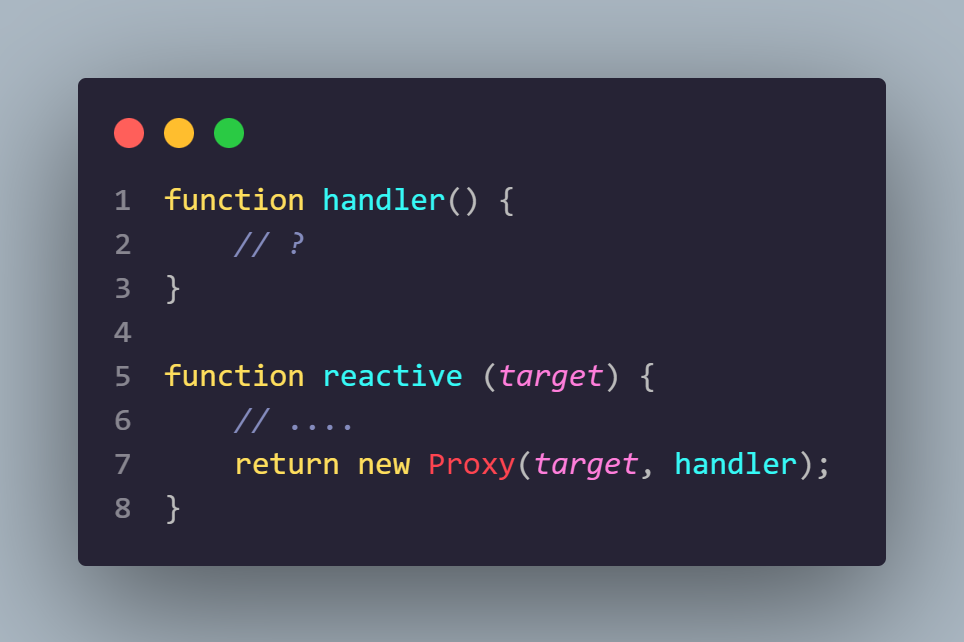
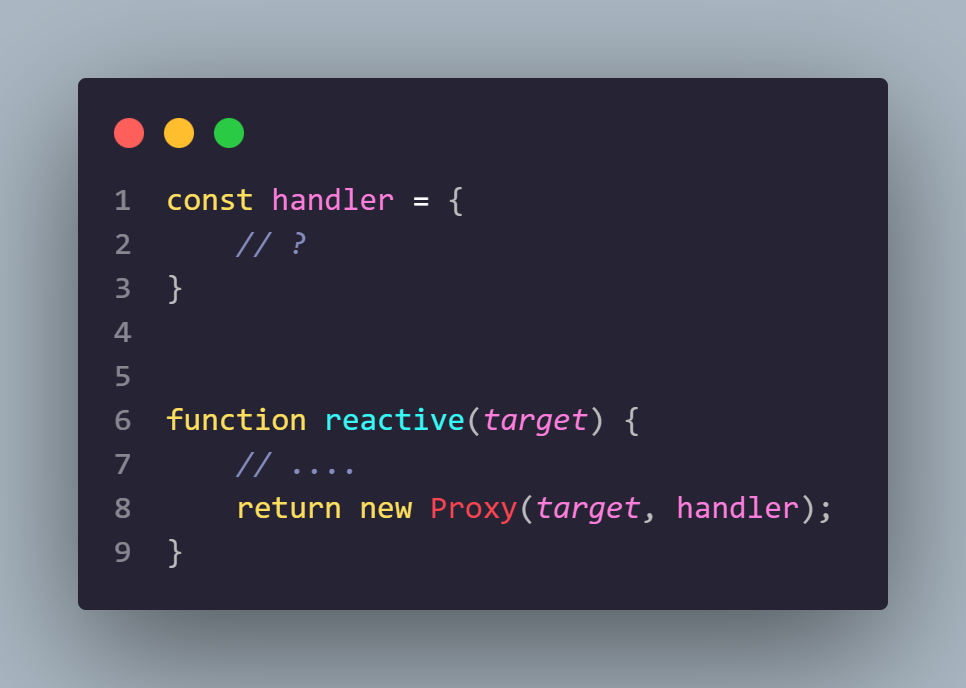
change

diff --git a/js/proxy.js b/js/proxy.js
@@ -1,8 +1,49 @@
-function handler() {
-    // ?
+// const handler = {
+//     get: function(target, key, receiver) {
+//         return Reflect.get(target, key, receiver)
+//     }
+// }
+
+
+const handler2 = {
+    get: function(target, key, receiver) {
+        return target[key]
+    }
 }
 
-function reactive (target) {
+/**
+ * 
+ * @param {*} target 
+ * @param {*} flag  true: use Reflect  false: use default
+ * @returns 
+ */
+function reactive(target, flag) {
     // ....
-    return new Proxy(target, handler);
+    return new Proxy(target, flag ? handler : handler2);
+}
+
+
+const person = {
+    name: 'Tim',
+    age: 34,
+    get getName () {
+        return this.name
+    }
+}
+
+const child = {
+    __proto__: person,
+    name: 'Child',
+}
+
+
+const reactiveChildByReflect = reactive(child, true)
+
+const reactiveChild = reactive(child, false)
+
+console.log(reactiveChild.getName)
+console.log(reactiveChildByReflect.getName)
+
+const handler = {
+    // ?
 }
